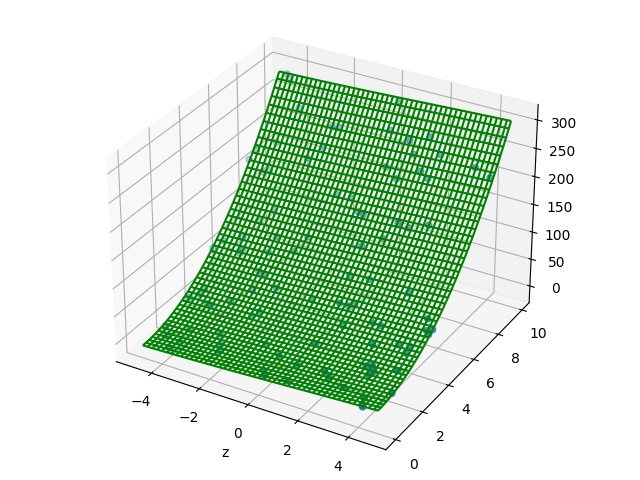
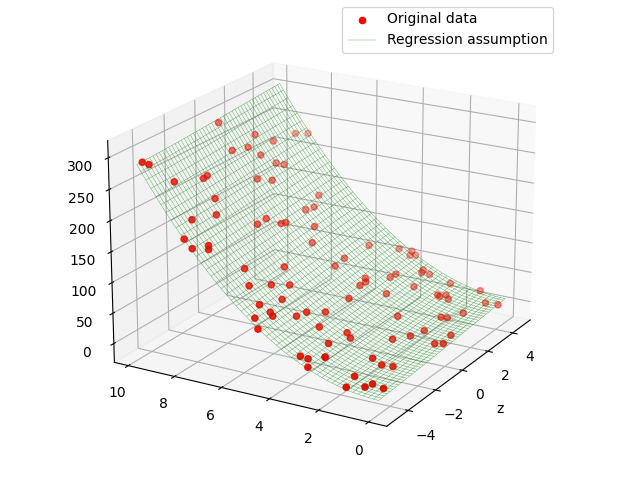
changed plot position and color

diff --git a/ex_3/sehun_kim/main.py b/ex_3/sehun_kim/main.py
@@ -7,17 +7,16 @@ import argparse
 import csv
 
 
-
 def csv_open(fname):
     file = pd.read_csv(fname)
     file = np.array(file)
     return file
 
 
-def reg_2d(data, degree):
+def reg_2d(data, order):
     x, y = data.T
-    phi = np.zeros([len(x), degree+1])
-    for i in range(degree+1):
+    phi = np.zeros([len(x), order+1])
+    for i in range(order+1):
         phi[:, i] += x ** i
 
     w = np.dot(np.dot(np.linalg.inv(np.dot(phi.T, phi)), phi.T), y)
@@ -29,57 +28,62 @@ def reg_2d(data, degree):
         for j in range(len(w)):
             reg_y[i] += (reg_x[i] ** j) * w[j]
 
-    plt.scatter(x, y)
-    plt.plot(reg_x, reg_y, label='Regression', color='red')
+    plt.scatter(x, y, label='Original data')
+    plt.plot(reg_x, reg_y, label='Regression assumption', color='red')
     plt.xlabel("x")
     plt.ylabel("y")
+    plt.legend()
 
     plt.savefig("result_2d.png")
 
 
-def reg_3d(data, degree):
+def reg_3d(data, order_x, order_y):
     x, y, z = data.T
-    phi = np.zeros([len(x), degree * 2 + 1])
-    for i in range(degree+1):
+    phi = np.zeros([len(x), order_x + order_y + 1])
+    for i in range(order_x+1):
         phi[:, i] += x ** i
-    for j in range(degree):
-        phi[:, j + degree + 1] += y ** (j +1)
+    for j in range(order_y):
+        phi[:, j + order_x + 1] += y ** (j + 1)
 
     w = np.dot(np.dot(np.linalg.inv(np.dot(phi.T, phi)), phi.T), z)
 
     reg_x = np.arange(min(x), max(x), 0.01)
-    reg_y = np.arange(min(y), max(y), (max(y)-min(y)) / ((max(x)-min(x)) /0.01))
+    reg_y = np.arange(min(y), max(y), (max(y)-min(y)) /
+                      ((max(x)-min(x)) / 0.01))
     reg_x, reg_y = np.meshgrid(reg_x, reg_y)
     reg_z = np.zeros([len(reg_y), len(reg_x)])
-    for i in range(0, degree + 1):
+    for i in range(0, order_x + 1):
         reg_z += (reg_x ** i) * w[i]
-    for j in range(1, degree + 1):
-        reg_z += (reg_y ** j) * w[j + degree]
+    for j in range(1, order_y + 1):
+        reg_z += (reg_y ** j) * w[j + order_x]
 
     fig = plt.figure()
     ax = Axes3D(fig)
     ax.set_xlabel('x')
     ax.set_xlabel('y')
     ax.set_xlabel('z')
-    ax.scatter(x, y, z, label = 'Original data')
-    ax.plot_wireframe(reg_x, reg_y, reg_z , color = 'g')
 
+    ax.view_init(20, 210)
+    ax.scatter(x, y, z, label='Original data', color = 'r')
+    plt.legend()
+    ax.plot_wireframe(reg_x, reg_y, reg_z, color='g', label='Regression assumption', linewidth = 0.2)
+    ax.legend()
     plt.savefig("result_3d.png")
 
 
 if __name__ == "__main__":
 
     parser = argparse.ArgumentParser(
-        description='Program for plotting regression equation.\nFile name, degree for regression equation are required.')
+        description='Program for plotting regression equation.\nFile name, order for regression equation are required.')
     parser.add_argument("-f", dest="filename", help='Filename', required=True)
-    parser.add_argument("-d", dest="degree", type=int,
-                        help='Degree for regression equation', required=True)
+    parser.add_argument("-ox", dest="order_x", type=int,
+                        help='Regression order for x', required=True)
+    parser.add_argument("-oy", dest="order_y", type=int,
+                        help='Regression order for y (optional). Default = 3', required=False, default = 3)
     args = parser.parse_args()
     data = csv_open(args.filename)
     dimension = np.shape(data)[1]
     if dimension == 3:
-        reg_3d(data, args.degree)
+            reg_3d(data, args.order_x, args.order_y)
     else:
-        reg_2d(data, args.degree)
-
-    print("Program terminated")
+        reg_2d(data, args.order_x)
